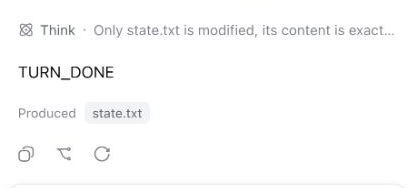
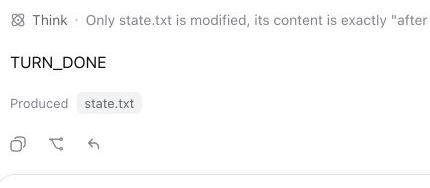
docs: update turn rewind product flow

diff --git a/README.md b/README.md
@@ -2,7 +2,7 @@
 
 [中文说明](README.zh.md)
 
-Turn-level conversation and working-tree rewind for [DeepSeek Harness](https://github.com/deepseek-ai/deepseek-harness), backed by persistent, reviewable restore points.
+Turn-level project-file recovery for [DeepSeek Harness](https://github.com/deepseek-ai/deepseek-harness), with an option to continue from the restored turn.
 
 **Turn Rewind** is the user-facing feature, repository, and Profile Bundle name. **Change Ledger** is the durable restore engine underneath it: the `ctx.changeLedger` service, `change_ledger_*` tools, on-disk format, and storage path keep that name because they describe the reusable snapshot and recovery layer rather than the Web action alone.
 
@@ -30,7 +30,7 @@ Rewind appears as the third icon beside DSH's native Copy and Branch actions:
 
 ![Turn Rewind action beside Copy and Branch](docs/assets/turn-rewind-action.png)
 
-Opening it presents a review-first choice between restoring code and conversation together, restoring code only, or rewinding conversation only:
+Opening it shows the affected files and offers two choices: restore the files and continue from that turn, or restore only the files:
 
 ![Turn Rewind review dialog](docs/assets/turn-rewind-dialog.png)
 
@@ -101,21 +101,22 @@ Restart a running profile after changing its bundle list.
 
 The package is a DSH Profile Bundle. `package.json` declares `dsh.bundle.patch`, and `cordis.patch.yml` mounts `@dsh-external/turn-rewind` without a DSH core patch.
 
-When the profile also provides the DSH Agent service, the plugin claims the Agent's idle maintenance boundary after each completed turn and captures a hidden checkpoint before queued work may start another turn. It deliberately does not synthesize checkpoints for history resumed before the plugin observed its turn boundary, because the current workspace may no longer represent that earlier turn. In Web profiles, the same-origin `/turn-rewind` endpoint exposes a bounded preview, mints the ordinary short-lived, session-bound restore plan used by code-affecting modes, and delegates conversation reconstruction to DSH's official Host fork lifecycle. It never restores merely because a turn completed.
+When the profile also provides the DSH Agent service, the plugin claims the Agent's idle maintenance boundary after each completed turn and captures a hidden checkpoint before queued work may start another turn. It deliberately does not synthesize checkpoints for history resumed before the plugin observed its turn boundary, because the current project files may no longer represent that earlier turn. In Web profiles, the same-origin `/turn-rewind` endpoint exposes a paged file preview, mints the ordinary short-lived, session-bound restore plan, and delegates “continue from here” child creation to DSH's official Host fork lifecycle. It never restores merely because a turn completed.
 
 ## User flow
 
-In the Web profile, each finalized assistant turn gains a compact, icon-only **Rewind** action in the third position after the native Copy and Branch controls. The session-scoped bridge deliberately does not claim the single-winner `conversation.chat.turnTail` chain, so DSH's Produced-files row and Rewind remain visible together. Opening Rewind fetches the checkpoint lazily, shows every affected path up to the bounded preview cap, and offers three modes:
+In the Web profile, each finalized assistant turn gains a compact, icon-only **Rewind** action in the third position after the native Copy and Branch controls. The icon is a backward/undo arrow rather than a retry symbol. Opening Rewind checks the saved file state lazily, shows a concise preview with a “view all files” action, and offers two modes:
 
 | Mode | Code | Conversation |
 | --- | --- | --- |
-| **Code and conversation** (default) | Restores the worktree after an explicit acknowledgement and rescue point. | Creates and opens a child Session ending at the selected turn. |
-| **Code only** | Restores the worktree after an explicit acknowledgement and rescue point. | Leaves the current Session open and unchanged. |
-| **Conversation only** | Leaves the current worktree unchanged. | Creates and opens a child Session ending at the selected turn. |
+| **Restore files and continue** (default) | Restores the project files after automatically backing up their current state. | Creates and opens a child Session ending at the selected turn. |
+| **Restore files only** | Restores the project files after automatically backing up their current state. | Leaves the current Session open and unchanged. |
 
-HEAD, branch, or in-progress Git-operation drift blocks only modes that would change code; conversation-only rewind remains available. If the worktree already matches the selected turn, the combined mode safely reduces to conversation-only. If conversation creation fails after a combined code restore, Change Ledger automatically restores the pre-operation code from the rescue point.
+The dialog itself is the confirmation: there is no duplicate checkbox. It describes each file as restoring an earlier version, finding a deleted file, removing a later-added file, or restoring permissions/type. Internal checkpoint, plan, and backup identifiers live under collapsed operation details. If the project files already match the selected turn, Turn Rewind performs no action and directs the user to the native **Branch** button for conversation-only branching.
 
-DSH Session logs are append-only, so conversation rewind is implemented by asking the official Host API to create a child from the exact completed-turn boundary and then opening that child. A forked child may reuse an ancestor's checkpoint only while the requested boundary is inside every durable `seedLength` fence and still matches the ancestor's exact `turn/end`; this allows repeated rewind without relabeling later child history. This implementation detail does not make it equivalent to the existing **Branch** action: Branch preserves the current code, while combined Rewind restores both code and conversational context. The original Session is always retained.
+Before mutation, Turn Rewind rechecks the selected files and repository state, then creates an automatic backup. Changes made after preview invalidate the operation. Another running Session using the same worktree blocks restoration because file recovery would affect that conversation too; idle Sessions do not block. If child creation fails after “restore and continue,” Change Ledger automatically restores the pre-operation files from the backup.
+
+DSH Session logs are append-only, so “continue from here” asks the official Host API to create a child at the exact completed-turn boundary and then opens that child. A forked child may reuse an ancestor's checkpoint only while the requested boundary is inside every durable `seedLength` fence and still matches the ancestor's exact `turn/end`; direct child checkpoints take priority and sibling checkpoints never mix. **Branch** creates only a conversation branch and keeps project files unchanged; **Turn Rewind** always restores project files, optionally followed by a conversation branch. The original Session is always retained.
 
 Example requests:
 
@@ -150,7 +151,7 @@ All model-visible list, inspect, recovery, plan, and apply payloads are paginate
 Override configuration in the profile patch layer:
 
 ```yaml
-- id: change-ledger
+- id: turn-rewind
   config:
     storageDir: ~/.dsh/change-ledger/v1
     maxRestorePoints: 50

diff --git a/SECURITY.md b/SECURITY.md
@@ -12,15 +12,15 @@ Workspace restoration requires all of the following:
 2. a fresh in-memory plan generated from the current tree;
 3. an exact short-lived confirmation value;
 4. the same DSH session when the plan was session-bound;
-5. an explicit human decision: the normal DSH approval outcome for model-facing tools, or the Web rewind dialog's mode selection and acknowledgement for a direct browser action;
+5. an explicit human decision: the normal DSH approval outcome for model-facing tools, or the Web rewind dialog's reviewed impact plus final restore button for a direct browser action;
 6. still-fresh selected-path hashes and the exact reviewed HEAD/branch/operation fence under the workspace lock;
 7. a durable rescue point and operation journal.
 
-The Web rewind adapter obtains the same session-bound plan and exact confirmation from a same-origin preview request, then sends both only after the user selects a code-affecting mode and confirms the browser dialog. Direct mutation requests without that live plan pair fail closed. Conversation-only rewind sends neither value because it does not mutate the workspace.
+The Web rewind adapter obtains the same session-bound plan and exact confirmation from a same-origin preview request, then sends both only after the user reviews the affected files and presses the final restore button. Direct mutation requests without that live plan pair fail closed. Conversation-only branching is deliberately absent and remains the responsibility of DSH's native Branch action.
 
-Conversation rewind verifies that the durable checkpoint still names the exact `turn/end` event before delegating child creation to DSH's official Host API. A forked Session may resolve that checkpoint through its parent lineage only while the boundary remains below every durable `seedLength`, every ancestor contains the same turn and seq, and the checkpoint names that exact seq. The Host owns seed creation, model-target inheritance, persistence, and Workspace attachment. The original append-only Session remains intact.
+Restore-and-continue verifies that the durable checkpoint still names the exact `turn/end` event before delegating child creation to DSH's official Host API. A forked Session may resolve that checkpoint through its parent lineage only while the boundary remains below every durable `seedLength`, every ancestor contains the same turn and seq, and the checkpoint names that exact seq. A direct checkpoint wins over an inherited checkpoint, sibling checkpoints are isolated, and malformed or missing lineage fails closed. The Host owns seed creation, model-target inheritance, persistence, and Workspace attachment. The original append-only Session remains intact.
 
-Combined rewind restores code first, then creates the conversation child. If child creation fails, the adapter immediately applies the first restore's rescue point to compensate the code change. If compensation also fails, the ordinary durable restore journals and rescue points remain available for manual recovery rather than hiding a partial outcome.
+Restore-and-continue restores files first, then creates the conversation child. If child creation fails, the adapter immediately applies the first restore's rescue point to compensate the file change. If compensation also fails, the ordinary durable restore journals and rescue points remain available for manual recovery rather than hiding a partial outcome. A second running Agent using the same canonical worktree blocks Web restoration before mutation and is rechecked at apply time; idle Agents do not create a concurrent writer risk.
 
 An absent approval channel fails closed through DSH's standard `ask` behavior.
 

diff --git a/docs/IMPLEMENTATION_PLAN.md b/docs/IMPLEMENTATION_PLAN.md
@@ -1,0 +1,54 @@
+# Turn Rewind 实施计划
+
+## 目标
+
+将 Turn Rewind 调整为面向普通用户的文件恢复功能，明确它与 Branch 的功能边界，并补齐多 Session、多层分叉和共享工作区场景下的安全处理。
+
+## 实施内容
+
+### 1. 简化用户界面和文案
+
+- 将“工作区”“代码路径”“救援点”“恢复计划”等技术术语替换为用户容易理解的“项目文件”“自动备份”“恢复文件”等表述。
+- 将默认操作改为“恢复文件并从这里继续”，第二个操作改为“只恢复文件”。
+- 删除“仅回退对话”选项，由现有 Branch 功能统一承担只创建对话分支的场景。
+- 删除重复确认复选框，将弹窗中的影响范围展示和最终主按钮点击作为确认流程。
+- 根据所选模式动态显示“恢复并继续”或“恢复文件”按钮。
+- 将底层检查点、分支、恢复计划和备份标识等信息收进默认折叠的操作详情。
+
+### 2. 改善文件变化展示
+
+- 使用“将恢复 N 个文件”替代“代码路径与该轮不同”。
+- 按文件的实际变化显示“恢复之前的版本”“找回文件”“移除后来新增的文件”或“恢复文件权限”等结果。
+- 文件较多时提供简洁预览和查看全部入口。
+- 没有文件需要恢复时，不再把 Rewind 退化为 Branch，而是提示用户文件无需恢复，并引导使用 Branch 创建新对话。
+
+### 3. 强化安全状态处理
+
+- 正常恢复时显著告知用户当前文件会先自动备份，恢复失败时会自动还原。
+- 文件在预览后发生变化时，使当前恢复操作失效，并要求重新检查。
+- 检测同一工作区是否被其他活跃 Session 使用；存在并发修改风险时明确提示并阻止恢复。
+- 明确告知共享工作区中的文件恢复会影响使用该目录的其他对话。
+- 保留恢复前备份、计划过期检查、恢复后验证和失败补偿等底层安全机制。
+
+### 4. 补齐多分叉场景
+
+- 验证多层父子 Session 可以沿祖先链正确找到继承范围内的检查点。
+- 验证多个兄弟分支之间的检查点互不混用。
+- 验证子 Session 自己的检查点优先于祖先检查点。
+- 验证每一层 Fork 的继承边界，禁止跨越 `seedLength` 使用祖先检查点。
+- 覆盖重启后从持久化 Session 中恢复多层分叉关系的情况。
+- 对父 Session 缺失、分叉关系循环、边界不一致和检查点被清理等异常情况安全失败。
+- 覆盖多个分支同时预览、恢复或使用同一工作区时的冲突处理。
+
+### 5. 调整接口、测试和文档
+
+- 移除前端和后端中不再需要的“仅回退对话”模式及相关测试。
+- 更新 UI、接口、错误状态和文件变化类型的自动化测试。
+- 更新中英文 README、使用说明和产品截图，使其与新交互保持一致。
+- 完成构建、完整测试、安装包检查和真实 Web 交互验证后再提交推送。
+
+## 最终功能边界
+
+- **Branch：**从所选回复创建新对话，项目文件保持不变。
+- **Turn Rewind：**将项目文件恢复到所选回复完成时，并可选择是否从该位置继续新对话。
+- **Change Ledger：**继续作为 Turn Rewind 底层的持久检查、自动备份和安全恢复引擎，不在普通用户主流程中暴露实现术语。
